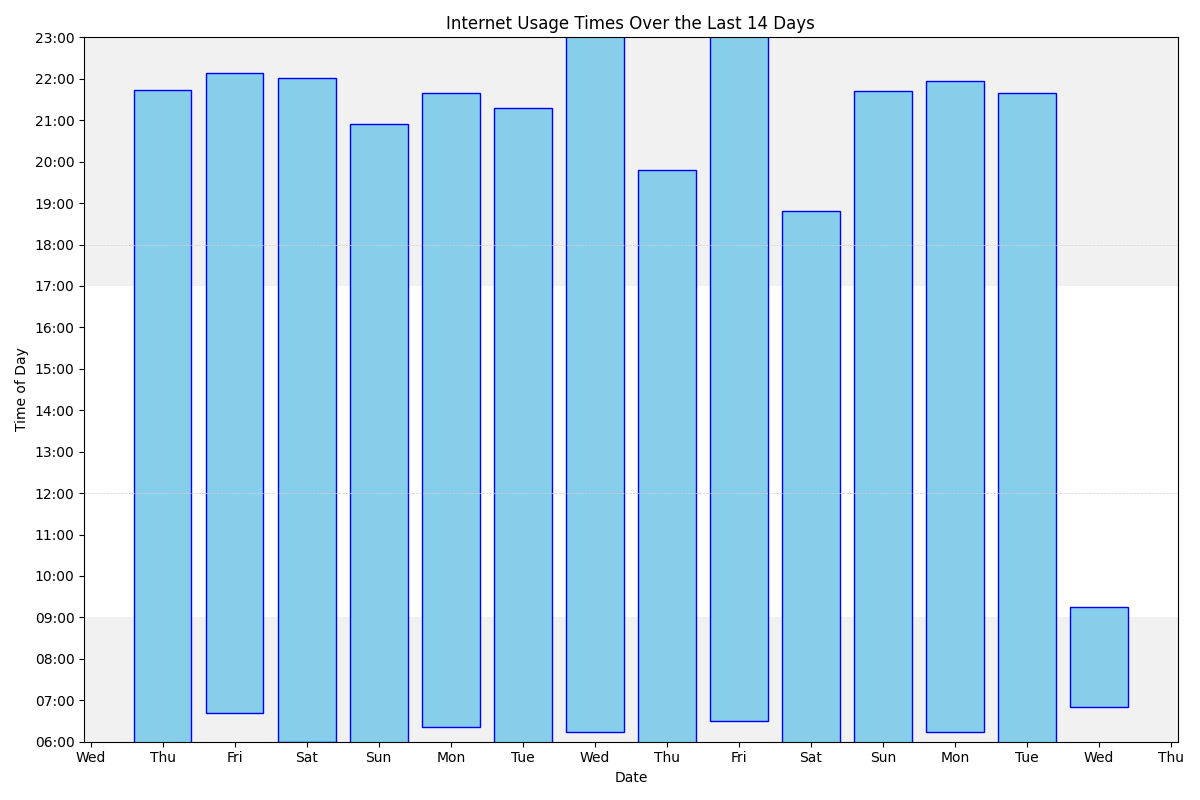
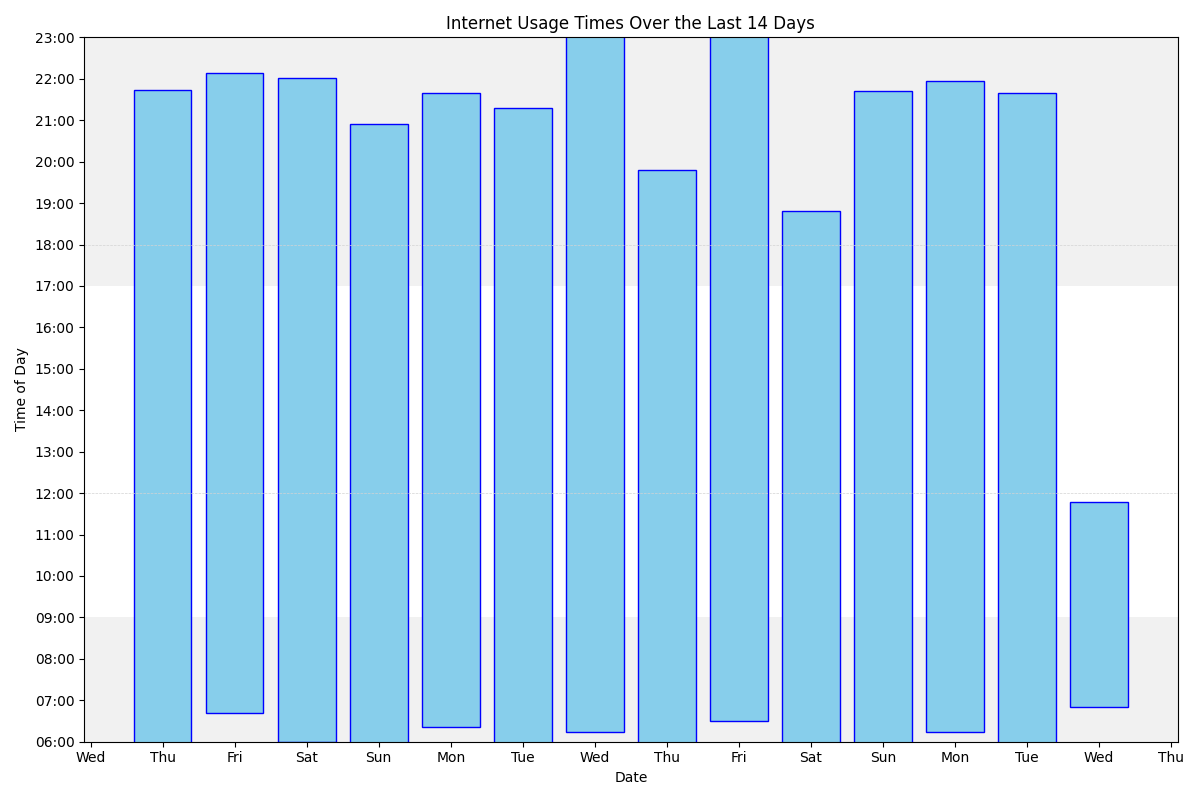
Update

Changed region(s): [[0.8633, 0.625, 0.9558, 0.7812]]

diff --git a/index.md b/index.md
@@ -70,10 +70,10 @@ With number of accesses/minutes in parentheses
 
 <ol><li>www.google.com (2954)</li>
 <li>outlook.office.com (2565)</li>
-<li>mail.google.com (2429)</li>
-<li>docs.google.com (1895)</li>
+<li>mail.google.com (2430)</li>
+<li>docs.google.com (1897)</li>
 <li>bsky.app (1456)</li>
-<li>outlook.office365.com (1399)</li>
+<li>outlook.office365.com (1404)</li>
 <li>www.facebook.com (1385)</li>
 <li>www.reddit.com (1325)</li>
 <li>duckduckgo.com (976)</li>
@@ -88,9 +88,9 @@ With number of accesses/minutes in parentheses
 <li>login.microsoftonline.com (374)</li>
 <li>tvtropes.org (349)</li>
 <li>gmail.com (337)</li>
-<li>web.whatsapp.com (298)</li>
+<li>web.whatsapp.com (299)</li>
 <li>fritz.box (277)</li>
-<li>drive.google.com (274)</li>
+<li>drive.google.com (275)</li>
 <li>feedly.com (272)</li>
 <li>chat.openai.com (260)</li>
 <li>qbo.intuit.com (230)</li>
@@ -108,7 +108,26 @@ With number of accesses/minutes in parentheses
 
 <br>
 
+<ul><li> 11:47 newmediawritingprize.co.uk</li>
+<li> 11:46 docs.google.com</li>
+<li> 11:46 drive.google.com</li>
+<li> 11:45 docs.google.com</li>
+<li> 11:44 outlook.office365.com</li>
+<li class='same'> 11:43 outlook.office365.com</li>
+</ul>
+
+<br>
+
+<ul><li> 10:58 mail.google.com</li>
+<li> 10:58 outlook.office365.com</li>
+<li class='same'> 10:57 outlook.office365.com</li>
+<li class='same'> 10:56 outlook.office365.com</li>
+</ul>
+
+<br>
+
 <ul><li> 09:14 www.theguardian.com</li>
+<li> 09:10 web.whatsapp.com</li>
 <li> 09:10 www.facebook.com</li>
 <li class='same'> 09:09 www.facebook.com</li>
 <li class='same'> 09:08 www.facebook.com</li>
